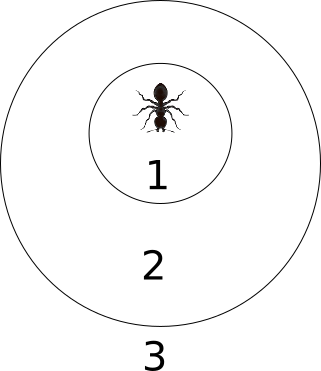
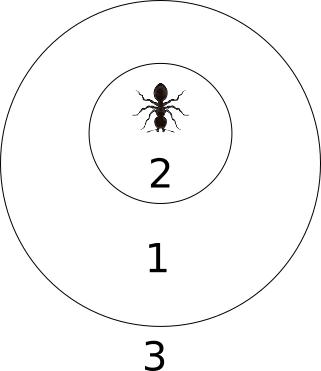
doc: WIP documentation

Changed region(s): [[0.4361, 0.6523, 0.5296, 0.7709], [0.4673, 0.4151, 0.5296, 0.5337]]

diff --git a/documentation/protocol.rst b/documentation/protocol.rst
@@ -1,7 +1,8 @@
 Protocol
 ********
 
-Ce document défini l'utilisation du protocol de communication entre "le stratège" et "le similateur".
+Ce document défini l'utilisation du protocol de communication entre 
+"le stratège" et "le similateur".
 
 .. WARNING::
     Les valeurs données dans les exemples le sont à titre indicatif.
@@ -9,24 +10,28 @@ Ce document défini l'utilisation du protocol de communication entre "le stratè
 Généralités
 ===========
 
-L'API utilise les ports stdin et stdout et n'accepte que du texte limité à 80 caractères au maximum. 
+L'API utilise les ports stdin et stdout et n'accepte que du texte limité à 80 
+caractères au maximum. 
 
-Chaque message est composé d'une commande et d'un ou plusieurs arguments séparés par des espaces.
+Chaque message est composé d'une commande et d'un ou plusieurs arguments séparés
+par des espaces.
 
 Les commandes sont séparées en deux catégories nid et fourmi.
 
 Les commandes sont séparées en deux types "actions" et "infos".
 
- - Infos: ce sont les données que reçoivent vos entités (nid et fourmi) sur  leur environnemet proche.
- - Actions: ce sont les tâches que vos entités peuvent réaliser pour progresser dans le jeu.
+ - Infos: ce sont les données que reçoivent vos entités (nid et fourmi) sur  
+   leur environnemet proche.
+ - Actions: ce sont les tâches que vos entités peuvent réaliser pour progresser 
+   dans le jeu.
 
-To tell to the engine that the AI has done, write `END` in sdtin.
+Pour signifier au simulateur qu'une fourmi ou un nid à effectué toutes ces 
+actions, envoyez *END* sur stdin.
 
-An entity is able to detect differents elements around it. It got two 
-circles of detection. The first, the big one, include the visible elements
-arount it. The second, the little one, include elements that are interactive.
+La capacité d'une fourmi à precevoir son environnement selon la distance est 
+symbolisé par deux cercles de détection.
 
-Exemple of three identical elements in different relative positions.
+Ci-dessous, une representation des cercles de détection.
 
 
 .. image:: _static/images/ant.png
@@ -34,13 +39,13 @@ Exemple of three identical elements in different relative positions.
 
 
 = ============== ================================
-1 visible et     *VISION []*
+1 visible et non *VISION [ant team=1 hp=3]*
   interactif 
-                 *INTERACTABLE [ant team=1 hp=3]*
-- -------------- --------------------------------
-2 visible et non *VISION [ant team=1 hp=3]*
-  interactif
                  *INTERACTABLE []*
+- -------------- --------------------------------
+2 visible et     *VISION []*
+  interactif
+                 *INTERACTABLE ant team=1 hp=3[]*
 - -------------- --------------------------------
 3 non visible et *VISION []*
   non interactif
@@ -88,7 +93,7 @@ Infos (stdout)
                  | 
                  | *MEMORY <u_int8> <u_int8>*
 **STATUS**       | Retourne la situation courante d'une fourmi (ATTACKED, 
-                 | OCCUPED or NONE
+                 | OCCUPED or NONE)
                  |
                  | *STATE <state>* 
 ================ ===============================================================
